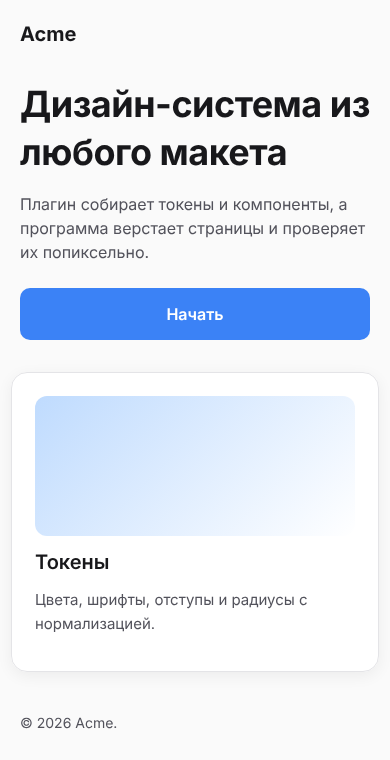
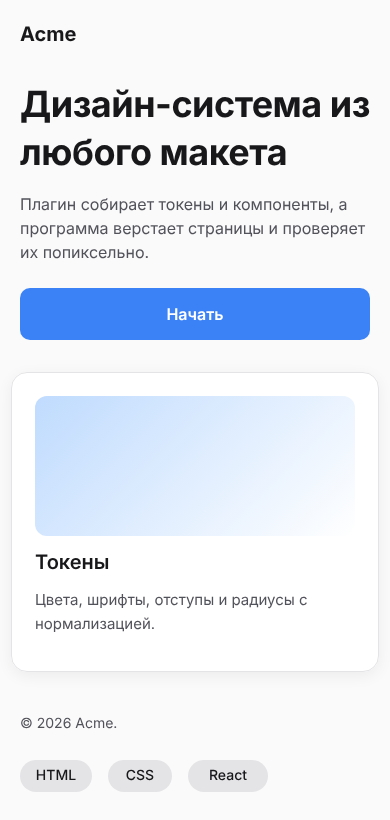
Точечный запасной режим: координаты только у блоков с расхождением
flow → закрепить раскладку у родителя сдвинутого слоя (или у самого контейнера, если не тот размер) →
при необходимости уровнем выше (до 4 шагов) → полный absolute только в крайнем случае.
fixture: ряд тегов с устаревшим Auto Layout — закрепляется 1 блок, остальная страница во flex.

Claude-Session: https://claude.ai/code/session_01CwaR1Hds1oXu6v9YwdEMTZ

diff --git a/packages/builder/src/cli.js b/packages/builder/src/cli.js
@@ -185,7 +185,6 @@ async function build(args) {
   const results = [];
   const fwPages = [];
   const responsive = [];
-  const modes = args.layout === 'auto' ? ['flow', 'absolute'] : [args.layout];
 
   try {
     for (const f of frames) {
@@ -206,14 +205,17 @@ async function build(args) {
       }
       const attempts = [];
       let chosen = null;
-      for (const mode of modes) {
-        const gen = generateFrame(tree, { mode, tokens, assetUrl: (rel) => `../assets/${rel}`, title: f.name, extraCss, semantic: args.semantic, names });
+      const parentOf = new Map();
+      (function walk(n) { for (const c of n.children || []) { parentOf.set(c.id, n.id); walk(c); } })(tree);
+
+      const runAttempt = async (mode, absIds = null) => {
+        const gen = generateFrame(tree, { mode, absIds, tokens, assetUrl: (rel) => `../assets/${rel}`, title: f.name, extraCss, semantic: args.semantic, names });
         // пробные варианты — рядом с папкой фрейма (та же глубина, пути к assets не меняются)
-        const attemptDir = modes.length > 1 ? path.join(out, `${dirName}.try-${mode}`) : fdir;
+        const attemptDir = args.layout === 'auto' ? path.join(out, `${dirName}.try-${mode}${absIds ? `-${attempts.length}` : ''}`) : fdir;
         fs.mkdirSync(attemptDir, { recursive: true });
         fs.writeFileSync(path.join(attemptDir, 'index.html'), gen.html);
         fs.writeFileSync(path.join(attemptDir, 'styles.css'), gen.css);
-        const att = { mode, gen, dir: attemptDir, percent: NaN };
+        const att = { mode, gen, dir: attemptDir, percent: NaN, pinned: absIds ? [...absIds] : [] };
         if (browser) {
           const rendered = await renderPage(browser, path.join(attemptDir, 'index.html'), {
             width: f.width, height: f.height, scale: pkg.scale, out: path.join(attemptDir, 'render.png'),
@@ -253,10 +255,59 @@ async function build(args) {
         const complete = !gen.stats.missing.length;
         if (!complete) console.log(`  ✗ не свёрстаны слои: ${gen.stats.missing.slice(0, 5).map((m) => m.name).join(', ')}${gen.stats.missing.length > 5 ? '…' : ''}`);
         att.ok = complete && (!att.geometry || att.geometry.failed === 0) && (!hasRef || pixelOk(att.diff, args));
-        if (att.ok || (!hasRef && !att.geometry)) { chosen = att; break; }
-      }
-      // чистая раскладка (первая попытка) остаётся, если запасная не лучше заметно (на 20%)
+        return att;
+      };
+
+      // слои, которые не сошлись: геометрия и (при эталоне) не-текстовые источники pixel diff.
+      // Что закреплять: сдвинут сам слой — виноват родитель (раскладка его детей); у контейнера на месте,
+      // но не того размера, — его собственная раскладка
+      const nodeById = new Map();
+      (function walk(n) { nodeById.set(n.id, n); (n.children || []).forEach(walk); })(tree);
+      const culprits = (att) => {
+        const bad = new Map();
+        for (const i of att.geometry?.issues || []) {
+          const moved = Math.abs(i.figma.x - i.html.x) > 0.5 || Math.abs(i.figma.y - i.html.y) > 0.5;
+          bad.set(i.id, moved || !nodeById.get(i.id)?.children?.length ? 'parent' : 'self');
+        }
+        if (hasRef && att.diff && !pixelOk(att.diff, args)) {
+          for (const t of att.diff.sources?.top || []) if (t.type !== 'TEXT' && t.pixels >= 50 && !bad.has(t.id)) bad.set(t.id, 'parent');
+        }
+        // сдвиг, унаследованный от несошедшегося предка, — не своя ошибка: берём только верхние
+        const inherited = (id) => { for (let p = parentOf.get(id); p; p = parentOf.get(p)) if (bad.has(p)) return true; return false; };
+        const pins = new Set();
+        for (const [id, who] of bad) if (!inherited(id)) pins.add(who === 'self' ? id : parentOf.get(id));
+        pins.delete(undefined);
+        return pins;
+      };
+
       const score = (a) => (a.geometry?.failed || 0) * 1000 + (Number.isNaN(a.percent) ? 0 : a.percent);
+      if (args.layout !== 'auto') {
+        chosen = await runAttempt(args.layout);
+      } else {
+        let att = await runAttempt('flow');
+        if (att.ok || (!hasRef && !att.geometry)) chosen = att;
+        // точечный запасной режим: координаты только у родителей несошедшихся слоёв;
+        // не сошлось — поднимаемся на уровень выше; до 4 шагов
+        const pinned = new Set();
+        for (let step = 0; !chosen && step < 4; step++) {
+          const want = culprits(att);
+          if (!want.size) break;
+          let grew = false;
+          for (let p of want) {
+            while (p && pinned.has(p)) p = parentOf.get(p); // уже закреплён и не помогло — уровнем выше
+            if (p && !pinned.has(p)) { pinned.add(p); grew = true; }
+          }
+          if (!grew) break;
+          att = await runAttempt('hybrid', new Set(pinned));
+          if (att.ok) chosen = att;
+          else if (score(att) >= score(attempts[0])) break; // не помогает — дальше полный запасной режим
+        }
+        if (!chosen) {
+          att = await runAttempt('absolute');
+          if (att.ok) chosen = att;
+        }
+      }
+      // чистая раскладка (первая попытка) остаётся, если запасные не лучше заметно (на 20%)
       if (!chosen) chosen = attempts.reduce((a, b) => (score(b) < score(a) * 0.8 ? b : a));
       chosen.chosen = true;
 
@@ -275,14 +326,16 @@ async function build(args) {
       results.push({
         name: f.name, id: f.id, width: f.width, height: f.height, dir: dirName,
         mode: chosen.mode, stats: chosen.gen.stats, fonts: chosen.fonts, diff: chosen.diff, geometry: chosen.geometry, refine: chosen.refine, pixels: pixelSplit(chosen.diff), pass,
-        attempts: attempts.map((a) => ({ mode: a.mode, percent: a.percent, geometryFailed: a.geometry?.failed ?? null, chosen: a.chosen })),
+        pinned: chosen.pinned,
+        attempts: attempts.map((a) => ({ mode: a.mode, pinned: a.pinned.length, percent: a.percent, geometryFailed: a.geometry?.failed ?? null, chosen: a.chosen })),
       });
       const geo = chosen.geometry ? `геометрия ${chosen.geometry.checked - chosen.geometry.failed}/${chosen.geometry.checked} (макс. ${chosen.geometry.maxDelta}px)` : '';
       const sp = pixelSplit(chosen.diff);
       const pix = hasRef ? `pixel diff ${chosen.percent.toFixed(3)}% (текст ${sp.textPct.toFixed(3)}%, остальное ${sp.otherPct.toFixed(3)}%)` : 'без эталона';
       const ref = chosen.refine ? ` (до автодоработки ${chosen.refine.before.toFixed(3)}%, поправок ${chosen.refine.patches.length})` : '';
       const status = `${pix}${ref} · ${geo} · ${pass === null ? '' : pass ? 'OK' : 'FAIL'}`;
-      console.log(`  ${f.name}: ${chosen.mode} · ${status}`);
+      const modeLabel = chosen.mode === 'hybrid' ? `flow, координаты закреплены у блоков: ${chosen.pinned.length}` : chosen.mode;
+      console.log(`  ${f.name}: ${modeLabel} · ${status}`);
     }
     // адаптивные страницы: фреймы одной страницы под разные ширины
     if (args.responsive) {

diff --git a/packages/builder/fixtures/make-fixture.js b/packages/builder/fixtures/make-fixture.js
@@ -123,13 +123,21 @@ const root = frame('Landing / Desktop', 0, 0, 1280, 900, [
 root.id = '1:1';
 
 // тот же лендинг под мобильный (390): фреймы «Landing / Desktop» и «Landing / Mobile» → одна адаптивная страница
-const mobile = frame('Landing / Mobile', 0, 0, 390, 760, [
+const mobile = frame('Landing / Mobile', 0, 0, 390, 820, [
   text('m/logo', 20, 20, 120, 28, 'Acme', { size: 20, lh: 28, style: 'Bold' }),
   text('m/title', 20, 80, 350, 96, 'Дизайн-система из любого макета', { size: 36, lh: 48, style: 'Bold', ls: -0.5 }),
   text('m/subtitle', 20, 192, 350, 72, 'Плагин собирает токены и компоненты, а программа верстает страницы и проверяет их попиксельно.', { size: 16, lh: 24, color: MUTED }),
   button('Button / Primary', 20, 288, 350, 52, 'Начать', true),
   card(11, 372, 'Токены', 'Цвета, шрифты, отступы и радиусы с нормализацией.', '#bfdbfe'),
   text('m/footer', 20, 712, 350, 24, '© 2026 Acme.', { size: 14, lh: 24, color: MUTED }),
+  // «грязный» макет: у ряда тегов Auto Layout с gap 8, но теги потом раздвинули руками до 16 —
+  // flex по Auto Layout ставит их не туда; точечный запасной режим закрепляет координаты только у этого ряда
+  frame('tags', 20, 760, 296, 32, [
+    ['HTML', 20, 72], ['CSS', 108, 64], ['React', 188, 80], ['Vue', 284, 32],
+  ].slice(0, 3).map(([t, x, w]) => frame(`tag/${t}`, x, 760, w, 32, [
+    text('label', x + 12, 764, w - 24, 24, t, { size: 14, lh: 24, style: 'Medium', align: 'CENTER', color: INK }),
+  ], { radius: 16, fills: solid('#e4e4e7'), layout: { mode: 'HORIZONTAL', gap: 0, padding: [4, 12, 4, 12], primaryAlign: 'CENTER', counterAlign: 'CENTER' } })),
+  { layout: { mode: 'HORIZONTAL', gap: 8, padding: [0, 0, 0, 0], primaryAlign: 'MIN', counterAlign: 'MIN' } }),
 ], { fills: solid('#fafafa'), clip: true });
 mobile.id = '2:1';
 
@@ -152,14 +160,14 @@ fs.writeFileSync(path.join(dir, 'manifest.json'), JSON.stringify({
   tokens: 'tokens.json',
   frames: [
     { id: '1:1', name: 'Landing / Desktop', page: 'Landing', width: 1280, height: 900, tree: 'frames/1_1.json', png: 'frames/1_1.png' },
-    { id: '2:1', name: 'Landing / Mobile', page: 'Landing', width: 390, height: 760, tree: 'frames/2_1.json', png: 'frames/2_1.png' },
+    { id: '2:1', name: 'Landing / Mobile', page: 'Landing', width: 390, height: 820, tree: 'frames/2_1.json', png: 'frames/2_1.png' },
   ],
 }, null, 2));
 
 // синтетический эталон: режим absolute
 const fonts = ensureFonts(['Inter'], defaultCacheDir());
 const browser = await openBrowser();
-for (const [tree, file, w, h] of [[root, '1_1', 1280, 900], [mobile, '2_1', 390, 760]]) {
+for (const [tree, file, w, h] of [[root, '1_1', 1280, 900], [mobile, '2_1', 390, 820]]) {
   const tmp = path.join(dir, '.ref');
   fs.mkdirSync(tmp, { recursive: true });
   const gen = generateFrame(tree, { mode: 'absolute', tokens: loadTokens(tokens), assetUrl: (r) => r });

diff --git a/packages/builder/src/report.js b/packages/builder/src/report.js
@@ -12,13 +12,13 @@ export function buildReport({ file, threshold, textThreshold, results, responsiv
         (r.diff ? ` · pixel diff: ${r.diff.percent.toFixed(3)}%` + (r.pixels ? ` (текст ${r.pixels.textPct.toFixed(3)}%, остальное ${r.pixels.otherPct.toFixed(3)}%)` : '') : '') + '</p>' +
         (g.issues.length ? '<ul class="warn">' + g.issues.slice(0, 10).map((i) => `<li>${esc(i.name)} (${esc(i.id)}): Δ ${i.delta}px — Figma ${i.figma.x},${i.figma.y} ${i.figma.w}×${i.figma.h}, вёрстка ${i.html.x},${i.html.y} ${i.html.w}×${i.html.h}</li>`).join('') + '</ul>' : '') : '';
       const tries = (r.attempts || [])
-        .map((a) => `<li>${esc(a.mode)}: pixel diff ${Number.isNaN(a.percent) ? '—' : a.percent.toFixed(3) + '%'}, ошибок геометрии ${a.geometryFailed ?? '—'}${a.chosen ? ' — <b>выбран</b>' : ''}</li>`)
+        .map((a) => `<li>${esc(a.mode === 'hybrid' ? `flow с закреплёнными блоками (${a.pinned})` : a.mode)}: pixel diff ${Number.isNaN(a.percent) ? '—' : a.percent.toFixed(3) + '%'}, ошибок геометрии ${a.geometryFailed ?? '—'}${a.chosen ? ' — <b>выбран</b>' : ''}</li>`)
         .join('');
       const fonts = (r.fonts || []).filter((f) => !f.available).map((f) => esc(f.family));
       return `
 <section class="card">
   <header><h2>${esc(r.name)}</h2>${badge}</header>
-  <p class="meta">${r.width}×${r.height} · раскладка: <b>${esc(r.mode)}</b> ·
+  <p class="meta">${r.width}×${r.height} · раскладка: <b>${esc(r.mode === 'hybrid' ? `flow, координаты закреплены у блоков: ${r.pinned.length}` : r.mode)}</b> ·
     блоков: ${r.stats.nodes} · flex Auto Layout: ${r.stats.figma || 0} · колонок/строк по геометрии: ${(r.stats.col || 0) + (r.stats.row || 0)} ·
     absolute: ${r.stats.abs || 0} · классов: ${r.stats.classes}${r.stats.tags ? ' · теги: ' + Object.entries(r.stats.tags).map(([t, n]) => `${t} ${n}`).join(', ') : ''}
     · <a href="${esc(r.dir)}/index.html">открыть вёрстку</a></p>

diff --git a/packages/builder/src/layout.js b/packages/builder/src/layout.js
@@ -99,14 +99,17 @@ function groupMasks(kids) {
 const hasAutoLayout = (n) => n.layout && (n.layout.mode === 'HORIZONTAL' || n.layout.mode === 'VERTICAL');
 
 /** Строит дерево блоков для узла. */
-export function buildBox(node, opts) {
+export function buildBox(node, outer) {
   const box = { kind: 'node', node, rect: rectOf(node), flow: 'col', children: [], absChildren: [] };
   if (node.type === 'TEXT' || node.svg) return box; // листья
   const kids = (node.children || []).filter(isVisible);
   if (!kids.length) return box;
+  // точечный запасной режим: только у этого узла дети ставятся по координатам, глубже — как обычно
+  const opts = outer.absIds?.has(node.id) ? { ...outer, mode: 'absolute' } : outer;
+  if (opts !== outer) box.pinned = true;
   const childBoxes = groupMasks(kids).map((k) => (k.mask
-    ? { kind: 'mask', node: k.mask, rect: rectOf(k.mask), flow: 'abs', children: k.members.map((m) => buildBox(m, opts)), absChildren: [] }
-    : buildBox(k, opts)));
+    ? { kind: 'mask', node: k.mask, rect: rectOf(k.mask), flow: 'abs', children: k.members.map((m) => buildBox(m, outer)), absChildren: [] }
+    : buildBox(k, outer)));
   // повёрнутый контейнер: дети несут свои абсолютные матрицы — кладём их в рамку как есть
   if (isTransformed(node)) {
     box.flow = 'abs';

diff --git a/packages/builder/src/generate.js b/packages/builder/src/generate.js
@@ -259,13 +259,13 @@ function inlineHtml(el) {
  * Генерирует страницу для одного фрейма.
  * @returns {{ html: string, css: string, stats: object }}
  */
-export function generateFrame(tree, { mode = 'flow', tokens, assetUrl, title, extraCss = [], semantic = true, names = null }) {
+export function generateFrame(tree, { mode = 'flow', absIds = null, tokens, assetUrl, title, extraCss = [], semantic = true, names = null }) {
   const styles = new StyleRegistry();
   const sem = semantic ? analyzeSemantics(tree) : null;
   // имена от ИИ (если включён) — только для безликих слоёв; теги остаются алгоритмическими
   if (sem && names) for (const [id, name] of names) { const e = sem.get(id); if (e) e.name = className(name); }
   const ctx = { styles, tokens, assetUrl, semantic: sem, downgrade: new Set() };
-  const root = buildBox(tree, { mode });
+  const root = buildBox(tree, { mode, absIds });
   const rootEl = buildEl(root, null, ctx);
   const body = htmlOf(rootEl, 1);
 
